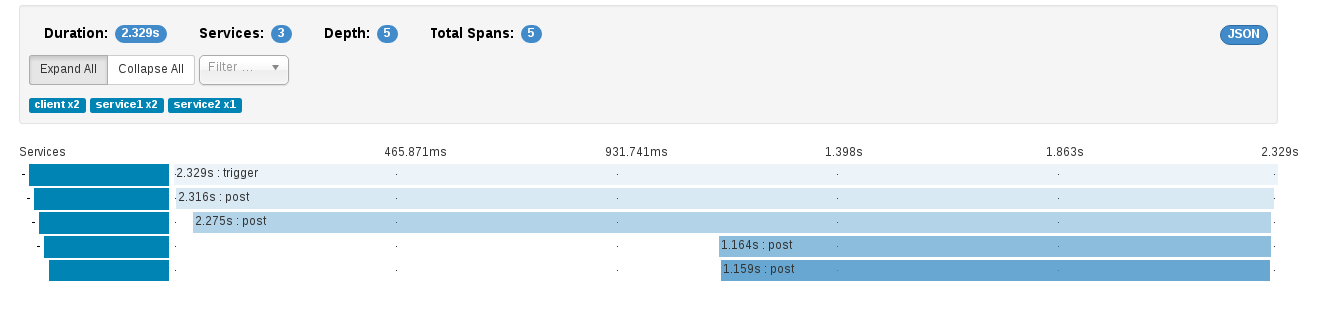
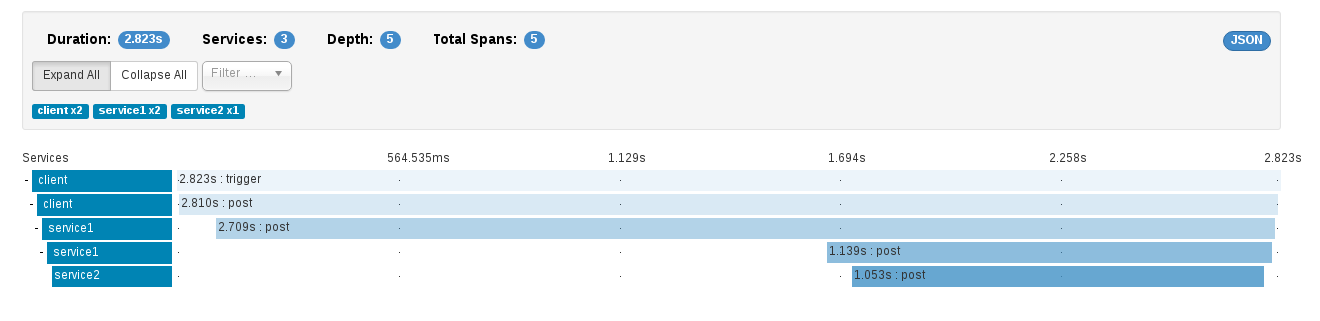
Creating website for 0.1-SNAPSHOT

diff --git a/blog.html b/blog.html
@@ -921,8 +921,8 @@ public class MyApplication {
 <div class="content">
 <pre class="prettyprint highlight"><code class="language-xml" data-lang="xml">  &lt;properties&gt;
     ...
-    &lt;version.brave.opentracing&gt;0.18.3&lt;/version.brave.opentracing&gt;
-    &lt;version.zipkin.reporter&gt;0.6.12&lt;/version.zipkin.reporter&gt;
+    &lt;version.brave.opentracing&gt;0.19.0&lt;/version.brave.opentracing&gt;
+    &lt;version.zipkin.reporter&gt;0.6.13&lt;/version.zipkin.reporter&gt;
   &lt;/properties&gt;</code></pre>
 </div>
 </div>
@@ -961,42 +961,49 @@ public class MyApplication {
 <div class="content">
 <pre class="prettyprint highlight"><code class="language-java" data-lang="java">import brave.opentracing.BraveTracer;
 import io.opentracing.Tracer;
-import io.opentracing.contrib.global.GlobalTracer;
 import zipkin.Span;
 import zipkin.reporter.AsyncReporter;
 import zipkin.reporter.Reporter;
 import zipkin.reporter.urlconnection.URLConnectionSender;
 
 ....
-
-    public static void initTracer() {
+    public static Tracer initTracer() {
         System.out.println("Using Zipkin Tracer");
         String zipkinServerUrl = String.format("%s/api/v1/spans", System.getenv("ZIPKIN_SERVER_URL"));
         Reporter&lt;Span&gt; reporter = AsyncReporter.builder(URLConnectionSender.create(zipkinServerUrl)).build();
-        brave.Tracer tracer = brave.Tracer.newBuilder().localServiceName("client").reporter(reporter).build();
-        GlobalTracer.register(BraveTracer.wrap(tracer));
+        brave.Tracer tracer = brave.Tracer.newBuilder().localServiceName("service2").reporter(reporter).build();
+        return BraveTracer.wrap(tracer);
     }</code></pre>
 </div>
 </div>
 <div class="ulist">
 <ul>
 <li>
-<p>Invoking the <code>initTracer</code> method</p>
-<div class="ulist">
-<ul>
-<li>
-<p>In <code>ClientApplication.java</code> it should be called at the end of the <code>setupCamel</code> method.</p>
-</li>
-<li>
-<p>In <code>Service1Application.java</code> it should be called before the <code>SpringApplication.run</code> method.</p>
-</li>
-<li>
-<p>In <code>Service2Application.java</code> it should be called as the first statement in the <code>main</code> method.</p>
+<p>In <code>ClientApplication.java</code> add <code>ottracer.setTracer(initTracer())</code>, e.g.</p>
 </li>
 </ul>
 </div>
+<div class="listingblock">
+<div class="content">
+<pre class="prettyprint highlight"><code class="language-java" data-lang="java">        OpenTracingTracer ottracer = new OpenTracingTracer();
+        ottracer.setTracer(initTracer());</code></pre>
+</div>
+</div>
+<div class="ulist">
+<ul>
+<li>
+<p>In <code>Service1Application.java</code>, simply add the <code>@Bean</code> annotation above the <code>initTracer()</code> method.</p>
+</li>
+<li>
+<p>In <code>Service2Application.java</code>, add the tracer from <code>initTracer()</code> to the registry, e.g.</p>
 </li>
 </ul>
+</div>
+<div class="listingblock">
+<div class="content">
+<pre class="prettyprint highlight"><code class="language-java" data-lang="java">        Main main = new Main();
+        main.bind("tracer", initTracer());</code></pre>
+</div>
 </div>
 <div class="paragraph">
 <p>Once the changes have all been made, compile the example using <code>mvn compile</code> from the <code>examples/camel-example-opentracing</code> folder. Next step is to start the Zipkin server:</p>

diff --git a/blog/2017/03/24/distributed-tracing-with-camel.html b/blog/2017/03/24/distributed-tracing-with-camel.html
@@ -363,8 +363,8 @@ public class MyApplication {
 <div class="content">
 <pre class="prettyprint highlight"><code class="language-xml" data-lang="xml">  &lt;properties&gt;
     ...
-    &lt;version.brave.opentracing&gt;0.18.3&lt;/version.brave.opentracing&gt;
-    &lt;version.zipkin.reporter&gt;0.6.12&lt;/version.zipkin.reporter&gt;
+    &lt;version.brave.opentracing&gt;0.19.0&lt;/version.brave.opentracing&gt;
+    &lt;version.zipkin.reporter&gt;0.6.13&lt;/version.zipkin.reporter&gt;
   &lt;/properties&gt;</code></pre>
 </div>
 </div>
@@ -403,42 +403,49 @@ public class MyApplication {
 <div class="content">
 <pre class="prettyprint highlight"><code class="language-java" data-lang="java">import brave.opentracing.BraveTracer;
 import io.opentracing.Tracer;
-import io.opentracing.contrib.global.GlobalTracer;
 import zipkin.Span;
 import zipkin.reporter.AsyncReporter;
 import zipkin.reporter.Reporter;
 import zipkin.reporter.urlconnection.URLConnectionSender;
 
 ....
-
-    public static void initTracer() {
+    public static Tracer initTracer() {
         System.out.println("Using Zipkin Tracer");
         String zipkinServerUrl = String.format("%s/api/v1/spans", System.getenv("ZIPKIN_SERVER_URL"));
         Reporter&lt;Span&gt; reporter = AsyncReporter.builder(URLConnectionSender.create(zipkinServerUrl)).build();
-        brave.Tracer tracer = brave.Tracer.newBuilder().localServiceName("client").reporter(reporter).build();
-        GlobalTracer.register(BraveTracer.wrap(tracer));
+        brave.Tracer tracer = brave.Tracer.newBuilder().localServiceName("service2").reporter(reporter).build();
+        return BraveTracer.wrap(tracer);
     }</code></pre>
 </div>
 </div>
 <div class="ulist">
 <ul>
 <li>
-<p>Invoking the <code>initTracer</code> method</p>
-<div class="ulist">
-<ul>
-<li>
-<p>In <code>ClientApplication.java</code> it should be called at the end of the <code>setupCamel</code> method.</p>
-</li>
-<li>
-<p>In <code>Service1Application.java</code> it should be called before the <code>SpringApplication.run</code> method.</p>
-</li>
-<li>
-<p>In <code>Service2Application.java</code> it should be called as the first statement in the <code>main</code> method.</p>
+<p>In <code>ClientApplication.java</code> add <code>ottracer.setTracer(initTracer())</code>, e.g.</p>
 </li>
 </ul>
 </div>
+<div class="listingblock">
+<div class="content">
+<pre class="prettyprint highlight"><code class="language-java" data-lang="java">        OpenTracingTracer ottracer = new OpenTracingTracer();
+        ottracer.setTracer(initTracer());</code></pre>
+</div>
+</div>
+<div class="ulist">
+<ul>
+<li>
+<p>In <code>Service1Application.java</code>, simply add the <code>@Bean</code> annotation above the <code>initTracer()</code> method.</p>
+</li>
+<li>
+<p>In <code>Service2Application.java</code>, add the tracer from <code>initTracer()</code> to the registry, e.g.</p>
 </li>
 </ul>
+</div>
+<div class="listingblock">
+<div class="content">
+<pre class="prettyprint highlight"><code class="language-java" data-lang="java">        Main main = new Main();
+        main.bind("tracer", initTracer());</code></pre>
+</div>
 </div>
 <div class="paragraph">
 <p>Once the changes have all been made, compile the example using <code>mvn compile</code> from the <code>examples/camel-example-opentracing</code> folder. Next step is to start the Zipkin server:</p>
